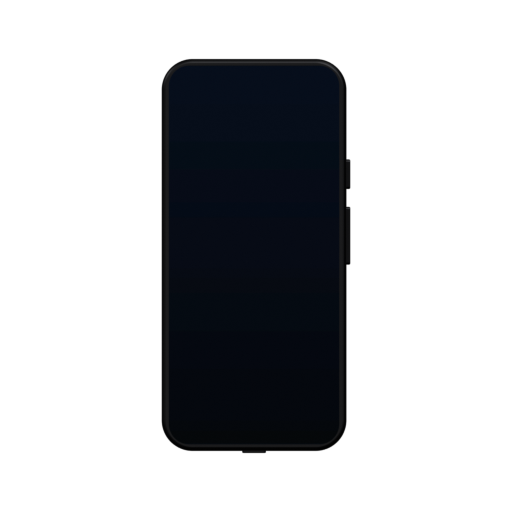
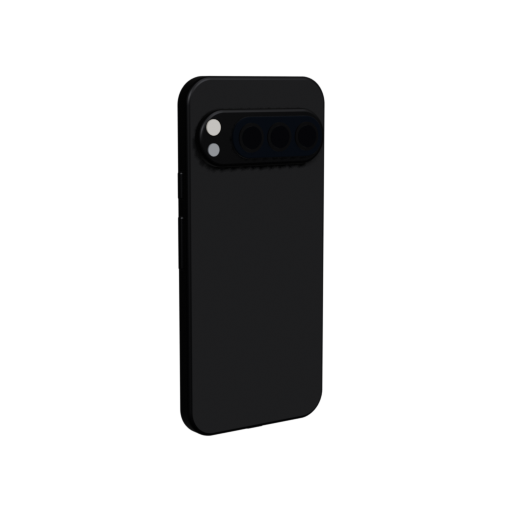
feat: angled android preview cards

Changed region(s): [[0.3125, 0.0938, 0.6875, 0.9062], [0.4375, 0.1875, 0.5312, 0.2188], [0.5625, 0.1875, 0.5938, 0.2188]]

diff --git a/scripts/render-android-previews.py b/scripts/render-android-previews.py
@@ -4,9 +4,10 @@ Render the Android device's picker-card previews, one per catalog colour.
     blender -b --python scripts/render-android-previews.py -- <in>.glb <out-dir>
 
 Imports the committed GLB, applies each colour's frame + back-glass override (the same
-values as src/toolkit/device/catalog.ts, kept in sync by hand), and renders a front-on
-orthographic PNG with a transparent background. Outputs <out-dir>/<colour>.png for the
-catalog's `previews` map. See src/assets/models/README.md.
+values as src/toolkit/device/catalog.ts, kept in sync by hand), and renders a perspective
+back three-quarter PNG with a transparent background, matching the vendor-authored iPhone
+cards' framing. Outputs <out-dir>/<colour>.png for the catalog's `previews` map. See
+src/assets/models/README.md.
 """
 
 import math
@@ -52,17 +53,26 @@ center = (lo + hi) / 2
 size = hi - lo
 extent = max(size.x, size.z, 0.001)
 
+del extent
+# Back three-quarter view: the front faces -Y, so the camera orbits to the +Y side,
+# yawed and slightly elevated, aimed at the centre (the iPhone cards' pose).
 cam_data = bpy.data.cameras.new("C")
-cam_data.type = "ORTHO"
-cam_data.ortho_scale = extent * 1.3
+cam_data.lens = 85
 cam_data.clip_end = 1000
 cam = bpy.data.objects.new("C", cam_data)
-cam.location = (center.x, lo.y - max(size.length, 1), center.z)
-cam.rotation_euler = (math.radians(90), 0, 0)
+yaw = math.radians(35)
+elev = math.radians(8)
+dist = max(size.z, 0.001) * 3.4
+cam.location = (
+    center.x + dist * math.cos(elev) * math.sin(yaw),
+    center.y + dist * math.cos(elev) * math.cos(yaw),
+    center.z + dist * math.sin(elev),
+)
+cam.rotation_euler = (center - cam.location).to_track_quat("-Z", "Y").to_euler()
 bpy.context.scene.collection.objects.link(cam)
 bpy.context.scene.camera = cam
 
-for ang, energy in [((55, 0, 20), 3.0), ((65, 0, -45), 1.6)]:
+for ang, energy in [((55, 0, 200), 3.0), ((65, 0, 135), 1.6)]:
     ld = bpy.data.lights.new("S", type="SUN")
     ld.energy = energy
     s = bpy.data.objects.new("S", ld)
